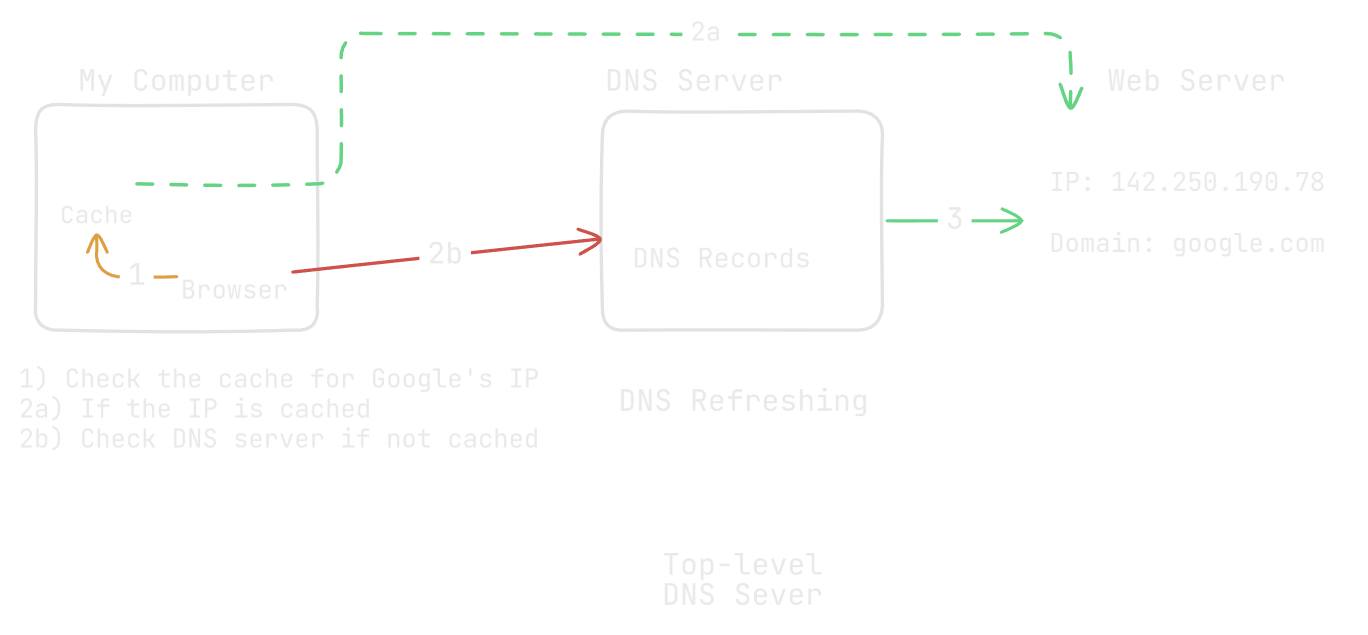
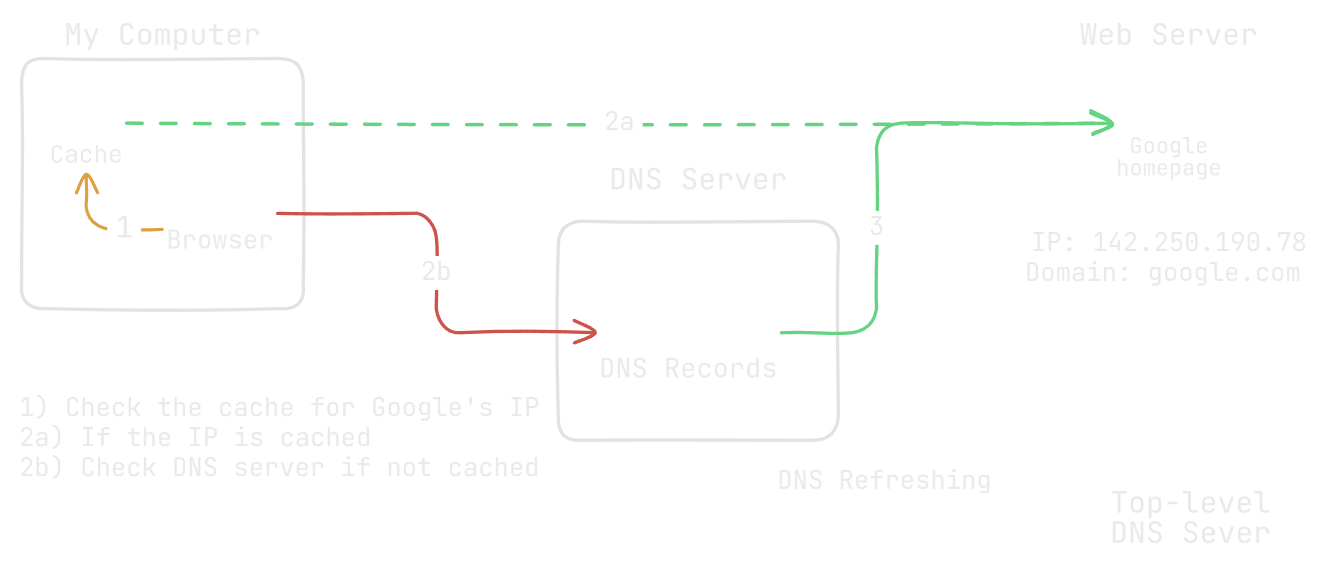
content: edit

diff --git a/src/views/tutorials/the-web/domains.php b/src/views/tutorials/the-web/domains.php
@@ -9,6 +9,12 @@
       <li>
         <a href="#what-is-a-domain">What is a Domain?</a>
       </li>
+      <li>
+        <a href="#who-owns-a-domain">Who Owns a Domain?</a>
+      </li>
+      <li>
+        <a href="#what-is-dns">What is DNS?</a>
+      </li>
     </nav>
     <section>
       <h2 id="what-is-a-domain">What is a Domain?</h2>
@@ -43,7 +49,7 @@
     </section>
 
     <section>
-      <h2>Who Owns a Domain?</h2>
+      <h2 id="who-owns-a-domain">Who Owns a Domain?</h2>
 
       <p>Domain names cannot be strictly <em>owned</em> because otherwise you would quickly end up with a few big companies buying up and hoarding all the domains. Instead, you pay for the <em>right</em> to use a domain name for a set period of time (usually 1 or more years), and can renew your right (which has priority over other people's applications for a domain). But you never <em>own</em> it, this is so in time the domain may become available again for other people to use.</p>
 
@@ -56,7 +62,7 @@
 
     <section>
 
-      <h2>What is DNS?</h2>
+      <h2 id="what-is-dns">What is DNS?</h2>
       <p><strong>DNS</strong> stands for <em>Domain Name System</em> and is essentially what we've been talking about up until now in this tutorial. But domain names and registering them form part of a much larger ecosystem.</p>
 
       <p>On the internet you have <strong>DNS servers</strong>, which are special servers around the world that contain a large database of domain names and associated information about them, also known as a <strong>DNS record</strong>. These records are held for a certain amount of time before they are automatically invalidated and then refreshed from top-level DNS servers, also known as authorative name servers (essentially big boss servers that manage the system). This process is also called <em>DNS refreshing</em> and is what allows a domain name registration to get out there on the web as previously mentioned.</p>
@@ -67,7 +73,7 @@
 
       <figure>
         <img src="/assets/images/the-web/domains/dns.png" style="max-width: 768px;" loading="lazy" alt="An overview of a network request with DNS" />
-        <figcaption>Figure 2 - An overview of a network request with DNS</figcaption>
+        <figcaption>Figure 2 - An overview of a network request with DNS to google.com</figcaption>
       </figure>
 
       <p>This process of registering domains, them being sent out to DNS servers via DNS refreshing, your web browser being able to query those servers and then cache those values, is what allows the web to work with domain names as seamlessly as it does; and provide us with easy to remember names for lots of different websites.</p>
